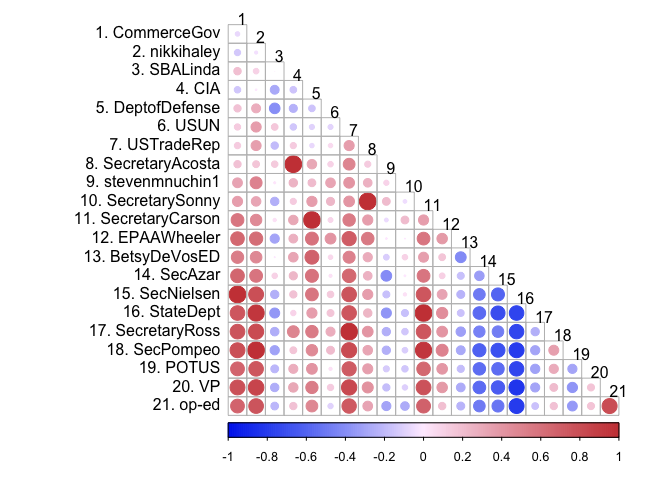
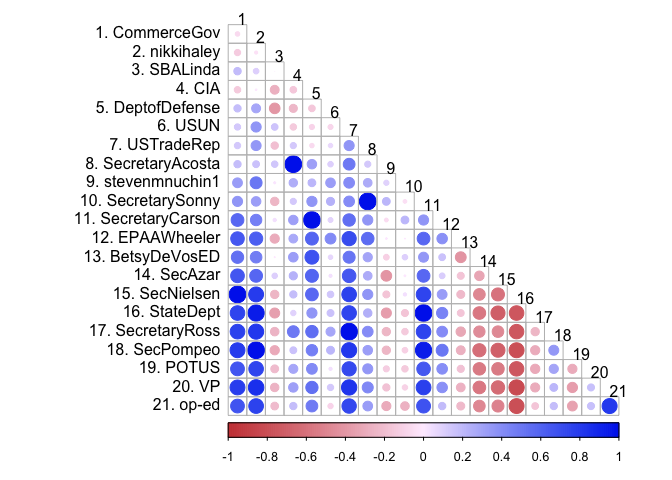
rev cols

Changed region(s): [[0.3125, 0.1562, 0.9375, 0.9375], [0.3438, 0.0938, 0.375, 0.1562]]

diff --git a/README.md b/README.md
@@ -43,7 +43,7 @@ colnames(cormat) <- NULL
 cormat <- cormat[23:43, 23:43]
 row.names(cormat) <- paste0(
     seq_len(nrow(cormat)), ". ", row.names(cormat))
-cols <- c("#0033ee", "#ffeeff", "#cc4444")
+cols <- c("#cc4444", "#ffeeff", "#0033ee")
 cols <- colorRampPalette(cols)(200)
 par(mar = c(0, 0, 0, 0))
 corrplot::corrplot(cormat, type = "lower", col = cols,
